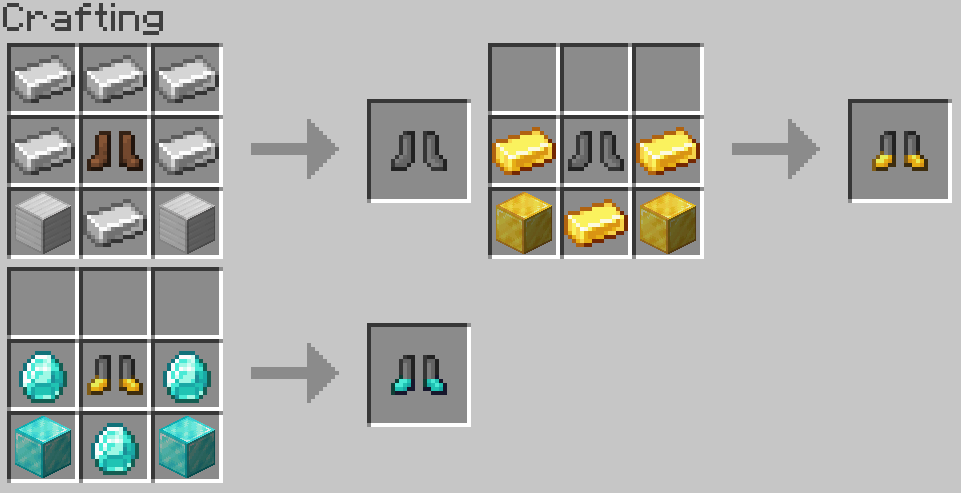
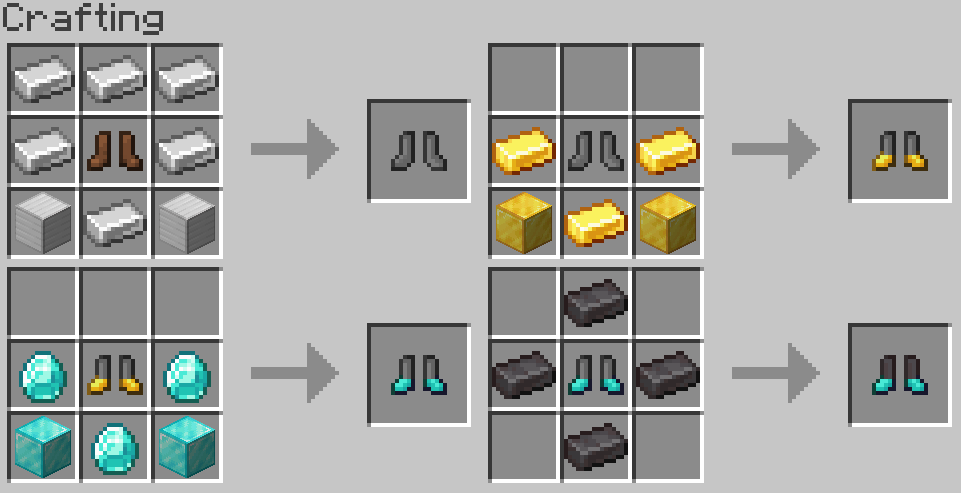
build28

Changed region(s): [[0.4995, 0.5172, 0.999, 1.0]]

diff --git a/mods/bootz.html b/mods/bootz.html
@@ -19,17 +19,56 @@
     <img class="picturebanner" id="descriptionsign" src="../images/Description.png" alt="Description">
   </div>
   <p class="texts">
-    BootZ is a small mod which adds 3 tiers of Speed Boots. You will get so fast you even leave a trail of fire behind
-    you!
+    BootZ is a small mod which adds 4 tiers of Speed Boots to support you exploring the world of minecraft faster. You
+    will get so fast you even leave a trail of fire behind you!
   </p>
   <div>
-    <img class="normalpictures" src="../images/screenshots/bootzscreen.png" alt="BootZ Screenhsot">
+    <img class="normalpictures" id="makepicsdistance" src="../images/screenshots/bootzscreen.png"
+      alt="BootZ Screenhsot">
   </div>
+  <div>
+    <img class="picturebanner" id="itemssign" src="../images/Items.png" alt="Items">
+  </div>
+  <p class="texts">
+    Tier List
+  </p>
+  <table class="list">
+    <tr>
+      <th>Boots</th>
+      <th class="dmg">Durability </th>
+      <th>Protection</th>
+      <th>Effect</th>
+    </tr>
+    <tr>
+      <td>Iron Tier</td>
+      <td>143</td>
+      <td> 1 (0,5<img class="heart" src="../images/otherstuff/armor.png" alt="armor">)</td>
+      <td>20% Speed I</td>
+    </tr>
+    <tr>
+      <td>Gold Tier</td>
+      <td>195</td>
+      <td> 2 (1<img class="heart" src="../images/otherstuff/armor.png" alt="armor">)</td>
+      <td>40% Speed II</td>
+    </tr>
+    <tr>
+      <td>Diamond Tier</td>
+      <td>391</td>
+      <td> 3 (1,5<img class="heart" src="../images/otherstuff/armor.png" alt="armor">)</td>
+      <td>60% Speed III</td>
+    </tr>
+    <tr>
+      <td>Netherite Tier</td>
+      <td>437</td>
+      <td> 4 (2<img class="heart" src="../images/otherstuff/armor.png" alt="armor">)</td>
+      <td>60% Speed III</td>
+    </tr>
+  </table>
   <div>
     <img class="picturebanner" id="recipessign" src="../images/Recipes.png" alt="Recipes">
   </div>
   <p class="texts">
-    Recipes are fairly balanced
+    The stronger you get, the better your shoes should be
   </p>
   <div>
     <img id="makepicsmaller" class="normalpictures" src="../images/screenshots/bootrecipes.png" alt="BootZ Recipe">
@@ -41,7 +80,8 @@
 
 
   <a id="buttondescription" class="button" href="#descriptionsign">Description</a>
-  <a id="buttonrecipesgolemz" class="button" href="#recipessign">Recipes</a>
+  <a id="buttonitems" class="button" href="#itemssign">Items</a>
+  <a id="buttonrecipes" class="button" href="#recipessign">Recipes</a>
 
 </body>
 
